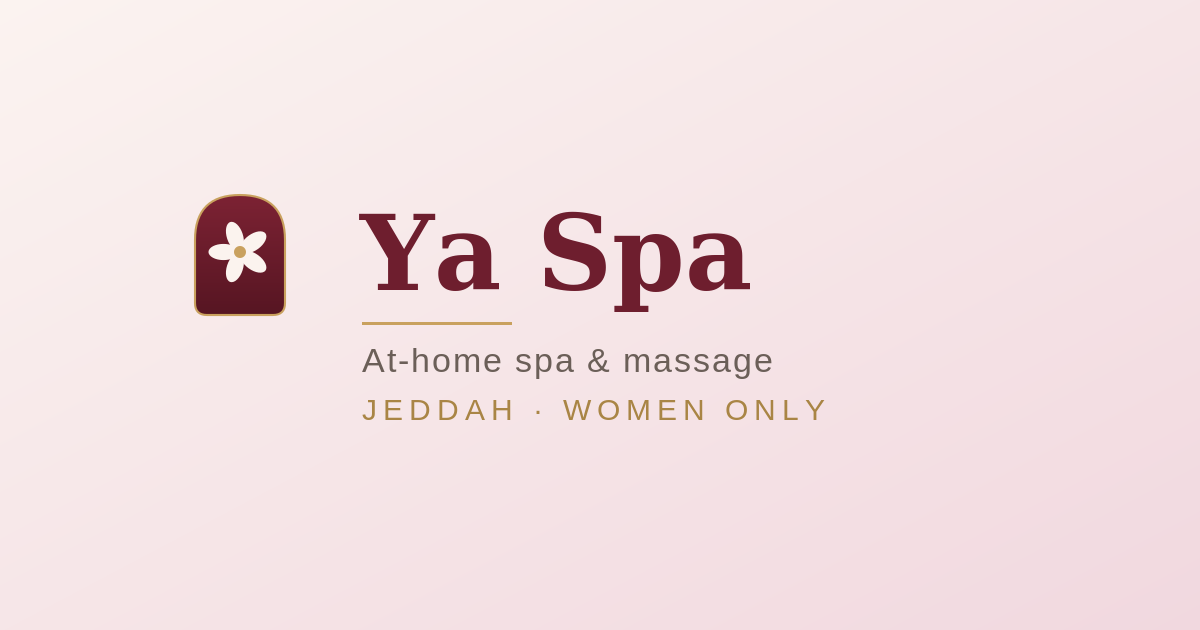
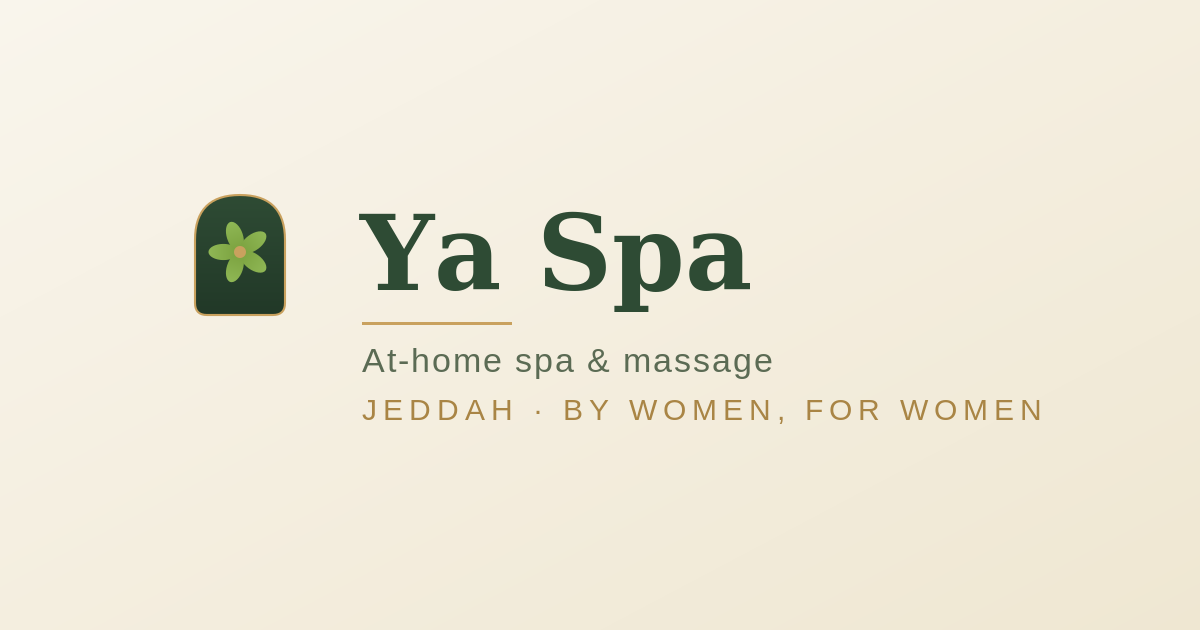
Landing redesign + green botanical rebrand
Rebased the design system to sugar-off-white + botanical green + antique gold
(matches the new logo/app). El Messiri Arabic display, gold hairline rules,
foil-hairline CTAs, forest dark sections. New arch+jasmine logo/favicon/PWA
icons/OG. Reworded "women only" into premium framing.

Changed region(s): [[0.2775, 0.3317, 0.6167, 0.5127], [0.1542, 0.3016, 0.2467, 0.5127], [0.4625, 0.6333, 0.8942, 0.6635]]

diff --git a/assets/styles.css b/assets/styles.css
@@ -9,30 +9,30 @@
 /* ---- Design tokens ---------------------------------------------------- */
 :root {
   /* Pink ramp — surfaces & accents. Pink<=400 = fills, >=600 = text-safe. */
-  --pink-50:  #FFF5F7;
-  --pink-100: #FDE8EE;
-  --pink-200: #FBD0DD;
-  --pink-300: #F7AEC4;
-  --pink-400: #F285A6;
-  --pink-500: #E45C86;
-  --pink-600: #C73E6B;
-  --pink-700: #9E2B52;
+  --pink-50:  #F4F6EC;
+  --pink-100: #E8EFDB;
+  --pink-200: #D5E1C1;
+  --pink-300: #AEC97F;
+  --pink-400: #8FB755;
+  --pink-500: #6E9B3E;
+  --pink-600: #4B7B37;
+  --pink-700: #2E4B34;
 
   /* Accents */
-  --gold-300: #E9D8B8;
-  --gold-500: #C9A24B;
-  --gold-600: #A6822F;
-  --mauve-500:#7A5C7E;
-  --mauve-600:#5F4763;
+  --gold-300: #E7D5AE;
+  --gold-500: #C9A15E;
+  --gold-600: #A98545;
+  --mauve-500:#94893F;
+  --mauve-600:#4E5D3B;
 
   /* Neutrals — warm plum-undertone, never cold black */
-  --ink-900:  #221019;
-  --ink-700:  #4A3540;
-  --ink-500:  #7A6B72;
-  --ink-300:  #D8CDD2;
-  --ink-200:  #EADFE3;
+  --ink-900:  #223420;
+  --ink-700:  #45543B;
+  --ink-500:  #717C64;
+  --ink-300:  #CFD7C4;
+  --ink-200:  #E4E8DA;
   --white:    #FFFFFF;
-  --cream-50: #FFFCFA;
+  --cream-50: #FBF8F0;
 
   /* Semantic */
   --success-600:#1E7A52; --success-100:#DCF3E8;
@@ -41,7 +41,7 @@
   --info-600:   #2563A8; --info-100:   #DEEBF8;
 
   /* Typography */
-  --font-display-ar: "Tajawal", system-ui, sans-serif;
+  --font-display-ar: "El Messiri", "Tajawal", system-ui, sans-serif;
   --font-body-ar:    "IBM Plex Sans Arabic", "Tajawal", system-ui, sans-serif;
   --font-display-en: "Fraunces", Georgia, serif;
   --font-body-en:    "IBM Plex Sans", system-ui, sans-serif;
@@ -50,12 +50,12 @@
   --font-body:    var(--font-body-ar);
 
   /* Elevation — plum-tinted, soft */
-  --shadow-xs:  0 1px 2px rgba(34,16,25,.05);
-  --shadow-sm:  0 2px 8px rgba(34,16,25,.06);
-  --shadow-md:  0 10px 26px rgba(158,43,82,.09);
-  --shadow-lg:  0 20px 48px rgba(158,43,82,.13);
-  --shadow-xl:  0 34px 70px rgba(158,43,82,.16);
-  --ring:       0 0 0 3px rgba(228,92,134,.45);
+  --shadow-xs:  0 1px 2px rgba(34,52,32,.05);
+  --shadow-sm:  0 2px 8px rgba(34,52,32,.07);
+  --shadow-md:  0 12px 28px rgba(46,75,52,.10);
+  --shadow-lg:  0 22px 50px rgba(46,75,52,.15);
+  --shadow-xl:  0 36px 74px rgba(46,75,52,.19);
+  --ring:       0 0 0 3px rgba(110,155,62,.45);
 
   /* Radii */
   --r-sm: 10px; --r-md: 16px; --r-lg: 24px; --r-xl: 34px; --r-pill: 999px;
@@ -239,10 +239,10 @@ html[lang="en"] .display { font-optical-sizing: auto; font-variation-settings: "
 
 /* Hero phone mock */
 .hero-visual { position: relative; display: flex; justify-content: center; }
-.phone { width: min(330px, 80vw); aspect-ratio: 320/660; background: linear-gradient(160deg, #2a1620, #1a0d14); border-radius: 46px; padding: 12px;
+.phone { width: min(330px, 80vw); aspect-ratio: 320/660; background: linear-gradient(160deg, #25402A, #182619); border-radius: 46px; padding: 12px;
   box-shadow: var(--shadow-xl), inset 0 0 0 2px rgba(255,255,255,.06); position: relative; transform: rotate(-2.5deg); transition: transform .5s var(--ease); }
 .phone:hover { transform: rotate(0deg) translateY(-6px); }
-.phone::before { content: ""; position: absolute; top: 16px; inset-inline: 0; margin-inline: auto; width: 96px; height: 22px; background: #1a0d14; border-radius: var(--r-pill); z-index: 3; }
+.phone::before { content: ""; position: absolute; top: 16px; inset-inline: 0; margin-inline: auto; width: 96px; height: 22px; background: #182619; border-radius: var(--r-pill); z-index: 3; }
 .phone-screen { background: var(--pink-50); border-radius: 36px; height: 100%; overflow: hidden; position: relative; display: flex; flex-direction: column; }
 .ps-top { padding: 2.4rem 1.1rem .8rem; }
 .ps-hi { font-size: .8rem; color: var(--ink-500); }
@@ -318,14 +318,14 @@ html[lang="en"] .display { font-optical-sizing: auto; font-variation-settings: "
    Estimator (signature interactive)
    ========================================================================= */
 .estimator { background: var(--ink-900); color: #fff; border-radius: var(--r-xl); padding: clamp(1.6rem, 4vw, 3rem); box-shadow: var(--shadow-xl); position: relative; overflow: hidden; }
-.estimator::after { content: ""; position: absolute; width: 420px; height: 420px; border-radius: 50%; background: radial-gradient(circle, rgba(228,92,134,.35), transparent 60%); top: -160px; inset-inline-end: -120px; }
+.estimator::after { content: ""; position: absolute; width: 420px; height: 420px; border-radius: 50%; background: radial-gradient(circle, rgba(110,155,62,.35), transparent 60%); top: -160px; inset-inline-end: -120px; }
 .est-grid { display: grid; grid-template-columns: 1.2fr .8fr; gap: clamp(1.4rem, 3vw, 2.6rem); position: relative; z-index: 1; }
 .estimator h2 { color: #fff; }
 .estimator .lead { color: var(--pink-100); opacity: .85; }
 .est-items { display: grid; gap: .7rem; margin-top: 1.6rem; }
 .est-item { display: flex; align-items: center; gap: .9rem; padding: .85rem 1rem; border-radius: var(--r-md); background: rgba(255,255,255,.05); border: 1px solid rgba(255,255,255,.1); cursor: pointer; transition: .2s; }
 .est-item:hover { background: rgba(255,255,255,.09); }
-.est-item.active { background: rgba(228,92,134,.18); border-color: var(--pink-400); }
+.est-item.active { background: rgba(110,155,62,.18); border-color: var(--pink-400); }
 .est-check { width: 24px; height: 24px; border-radius: 7px; border: 2px solid rgba(255,255,255,.3); flex: none; display: grid; place-items: center; transition: .2s; }
 .est-item.active .est-check { background: var(--pink-500); border-color: var(--pink-500); }
 .est-check svg { width: 14px; height: 14px; color: #fff; opacity: 0; transform: scale(.5); transition: .2s; }
@@ -361,13 +361,13 @@ html[lang="en"] .display { font-optical-sizing: auto; font-variation-settings: "
    Trust stack
    ========================================================================= */
 .trust { background: var(--ink-900); color: #fff; position: relative; overflow: hidden; }
-.trust .blob.b1 { background: radial-gradient(circle, rgba(228,92,134,.4), transparent 60%); opacity: .5; }
+.trust .blob.b1 { background: radial-gradient(circle, rgba(110,155,62,.4), transparent 60%); opacity: .5; }
 .trust h2 { color: #fff; }
 .trust .lead { color: var(--pink-100); opacity: .82; }
 .trust-grid { grid-template-columns: repeat(5, 1fr); margin-top: 3rem; }
 .trust-card { background: rgba(255,255,255,.05); border: 1px solid rgba(255,255,255,.1); border-radius: var(--r-lg); padding: 1.5rem 1.2rem; text-align: center; transition: .3s var(--ease); }
 .trust-card:hover { background: rgba(255,255,255,.09); transform: translateY(-6px); }
-.trust-card .tc-icon { width: 60px; height: 60px; margin: 0 auto 1rem; border-radius: 50%; background: rgba(228,92,134,.16); color: var(--pink-300); display: grid; place-items: center; }
+.trust-card .tc-icon { width: 60px; height: 60px; margin: 0 auto 1rem; border-radius: 50%; background: rgba(110,155,62,.16); color: var(--pink-300); display: grid; place-items: center; }
 .trust-card .tc-icon svg { width: 30px; height: 30px; }
 .trust-card h4 { color: #fff; font-size: 1.02rem; margin-bottom: .4rem; }
 .trust-card p { color: var(--pink-100); opacity: .65; font-size: .82rem; }
@@ -398,7 +398,7 @@ html[lang="en"] .display { font-optical-sizing: auto; font-variation-settings: "
 .pkg-grid { grid-template-columns: repeat(3, 1fr); margin-top: 1rem; }
 .pkg { background: #fff; border-radius: var(--r-lg); padding: 2rem 1.7rem; box-shadow: var(--shadow-sm); border: 1px solid var(--gold-300); position: relative; transition: .3s var(--ease); display: flex; flex-direction: column; }
 .pkg:hover { transform: translateY(-8px); box-shadow: var(--shadow-xl); }
-.pkg.featured { background: linear-gradient(170deg, #2a1620, #3a2230); color: #fff; border-color: var(--gold-500); transform: scale(1.03); }
+.pkg.featured { background: linear-gradient(170deg, #25402A, #31543A); color: #fff; border-color: var(--gold-500); transform: scale(1.03); }
 .pkg.featured:hover { transform: scale(1.03) translateY(-8px); }
 .pkg .tag { position: absolute; top: -14px; inset-inline-start: 50%; transform: translateX(-50%); background: linear-gradient(120deg, var(--gold-500), var(--gold-600)); color: #2b220c; font-size: .72rem; font-weight: 800; padding: .3rem .9rem; border-radius: var(--r-pill); white-space: nowrap; }
 [dir="rtl"] .pkg .tag { transform: translateX(50%); }
@@ -599,3 +599,42 @@ body.cart-open .wa-float, body.cart-open .totop { inset-block-end: 92px; }
   .footer-bottom { flex-direction: column; }
   :root { --section-y: clamp(48px, 12vw, 80px); }
 }
+
+/* =========================================================================
+   Editorial luxury layer (v3 — quiet Hijazi green)
+   ========================================================================= */
+/* Eyebrow: antique-gold hairline lead-ins on centered heads */
+.section-head.center .eyebrow { gap: .8rem; }
+.section-head.center .eyebrow::before,
+.section-head.center .eyebrow::after { content:""; width: 26px; height: 1px; background: var(--gold-500); opacity:.75; }
+
+/* Gold hairline rule under centered section titles */
+.section-head.center .section-title { position: relative; padding-bottom: .8rem; }
+.section-head.center .section-title::after {
+  content:""; position:absolute; inset-inline:0; bottom:0; margin-inline:auto;
+  width: 56px; height: 2px; border-radius: 2px;
+  background: linear-gradient(90deg, transparent, var(--gold-500), transparent);
+}
+
+/* Primary CTA — forest green with an antique-gold foil hairline (matches the app) */
+.btn-primary { background: linear-gradient(180deg, var(--pink-600), var(--pink-700)); position: relative; }
+.btn-primary::after { content:""; position:absolute; inset:3px; border-radius: inherit;
+  box-shadow: inset 0 0 0 1px rgba(201,161,94,.45); pointer-events:none; }
+.btn-primary:hover { background: var(--pink-700); }
+
+/* Warm gold hairline along the top edge of the dark (forest) sections */
+.valuestrip, .trust, .estimator, .site-footer { box-shadow: inset 0 1px 0 rgba(201,161,94,.30); }
+.estimator { box-shadow: var(--shadow-xl), inset 0 1px 0 rgba(201,161,94,.30); }
+
+/* Hero accent — a soft gold wash underline instead of a flat block */
+.hero h1 .accent { color: var(--pink-700); }
+.hero h1 .accent::after { background: linear-gradient(90deg, var(--gold-300), var(--gold-500)); height:.28em; opacity:.6; }
+
+/* Cards: warm hairline on hover */
+.svc:hover, .feature:hover { border-color: var(--pink-200); }
+
+/* Arabic display (El Messiri) wants a touch more leading */
+[lang="ar"] .display, [lang="ar"] h2.section-title { line-height: 1.3; }
+
+/* Brand wordmark small-caps in gold-green */
+.brand small { color: var(--gold-600); }

diff --git a/index.html b/index.html
@@ -3,9 +3,9 @@
 <head>
 <meta charset="UTF-8">
 <meta name="viewport" content="width=device-width, initial-scale=1, viewport-fit=cover">
-<title>يا سبا · السبا والمساج يجيكِ البيت — Ya Spa</title>
-<meta name="description" content="يا سبا — مساج وعناية احترافية في بيتكِ بجدة. معالجات وأخصائيات معتمدات، نساء فقط، أدوات معقّمة. اطلبي خدمتكِ الآن.">
-<meta name="theme-color" content="#9E2B52">
+<title>يا سبا · المساج يجيكِ البيت — Ya Spa</title>
+<meta name="description" content="يا سبا — مساج احترافي في بيتكِ بجدة. معالِجات مساج معتمدات، نساء فقط، أدوات معقّمة. اطلبي جلستكِ الآن.">
+<meta name="theme-color" content="#2E4B34">
 <link rel="canonical" href="https://mohammadmseet-hue.github.io/ya-spa/">
 <meta property="og:title" content="يا سبا — السبا والمساج يجيكِ البيت · Ya Spa">
 <meta property="og:description" content="مساج وعناية احترافية في خصوصية بيتكِ بجدة. نساء فقط، معالجات معتمدات، أدوات معقّمة.">
@@ -24,7 +24,7 @@
 <link rel="icon" href="assets/icon.svg">
 <link rel="preconnect" href="https://fonts.googleapis.com">
 <link rel="preconnect" href="https://fonts.gstatic.com" crossorigin>
-<link href="https://fonts.googleapis.com/css2?family=Tajawal:wght@400;500;700;800;900&family=IBM+Plex+Sans+Arabic:wght@400;500;600;700&family=IBM+Plex+Sans:wght@400;500;600;700&family=Fraunces:opsz,wght@9..144,400;9..144,500;9..144,600;9..144,700&display=swap" rel="stylesheet">
+<link href="https://fonts.googleapis.com/css2?family=El+Messiri:wght@500;600;700&family=Tajawal:wght@400;500;700;800;900&family=IBM+Plex+Sans+Arabic:wght@400;500;600;700&family=IBM+Plex+Sans:wght@400;500;600;700&family=Fraunces:opsz,wght@9..144,400;9..144,500;9..144,600;9..144,700&display=swap" rel="stylesheet">
 <link rel="stylesheet" href="assets/styles.css">
 </head>
 <body>
@@ -45,7 +45,6 @@
 
     <nav class="nav-links" aria-label="primary">
       <a href="#massage" data-ar="المساج" data-en="Massage">المساج</a>
-      <a href="#beauty" data-ar="التجميل" data-en="Beauty">التجميل</a>
       <a href="#how" data-ar="كيف تطلبين" data-en="How to order">كيف تطلبين</a>
       <a href="#trust" data-ar="الثقة والأمان" data-en="Trust & safety">الثقة والأمان</a>
       <a href="#bridal" data-ar="باقات العرائس" data-en="Bridal">باقات العرائس</a>
@@ -67,7 +66,6 @@
 <div class="mobile-menu" id="mobileMenu">
   <div class="mobile-panel">
     <a href="#massage" data-ar="المساج" data-en="Massage">المساج</a>
-    <a href="#beauty" data-ar="التجميل" data-en="Beauty">التجميل</a>
     <a href="#how" data-ar="كيف تطلبين" data-en="How to order">كيف تطلبين</a>
     <a href="#trust" data-ar="الثقة والأمان" data-en="Trust & safety">الثقة والأمان</a>
     <a href="#bridal" data-ar="باقات العرائس" data-en="Bridal">باقات العرائس</a>
@@ -82,20 +80,20 @@
     <div class="hero-copy">
       <div class="hero-rating reveal">
         <span class="stars">★★★★★</span>
-        <span data-ar="مصمَّمة للمرأة السعودية — نساء فقط، دائمًا" data-en="Built for Saudi women — women only, always">مصمَّمة للمرأة السعودية — نساء فقط، دائمًا</span>
+        <span data-ar="مصمَّمة للمرأة السعودية · عالَمٌ نسائيّ بالكامل" data-en="Made for Saudi women · an all-women world">مصمَّمة للمرأة السعودية · عالَمٌ نسائيّ بالكامل</span>
       </div>
       <span class="eyebrow reveal d1" data-ar="✦ السبا يجيكِ البيت · جدة" data-en="✦ The spa comes home · Jeddah">✦ السبا يجيكِ البيت · جدة</span>
       <h1 class="display reveal d1">
         <span data-ar="المساج والاسترخاء" data-en="Massage & calm,">المساج والاسترخاء</span>
         <span class="accent" data-ar="في بيتكِ" data-en="at your home">في بيتكِ</span>
       </h1>
-      <p class="lead reveal d2" data-ar="معالِجات مساج وأخصائيات تجميل معتمدات — نساء فقط — يصلن إلى خصوصية بيتكِ في جدة. مساج احترافي للاسترخاء وتخفيف التوتر، بأدوات معقّمة وسعرٍ واضح. اختاري خدمتكِ واطلبيها في دقيقة." data-en="Certified massage therapists and beauty pros — women only — come to the privacy of your home in Jeddah. Professional, relaxing massage with sealed tools and clear pricing. Pick a service and order in a minute.">معالِجات مساج وأخصائيات تجميل معتمدات — نساء فقط — يصلن إلى خصوصية بيتكِ في جدة. مساج احترافي للاسترخاء وتخفيف التوتر، بأدوات معقّمة وسعرٍ واضح. اختاري خدمتكِ واطلبيها في دقيقة.</p>
+      <p class="lead reveal d2" data-ar="معالِجات مساج معتمدات، في عالَمٍ نسائيّ بالكامل، يصلن إلى خصوصية بيتكِ في جدة. لمسة راقية للاسترخاء وصفاء الذهن — بأدوات معقّمة وسعرٍ شفّاف. اختاري جلستكِ في دقيقة." data-en="Certified therapists, in an entirely all-women world, arrive at the privacy of your Jeddah home. A refined, restorative ritual — sealed tools, transparent pricing. Choose your session in a minute.">معالِجات مساج معتمدات، في عالَمٍ نسائيّ بالكامل، يصلن إلى خصوصية بيتكِ في جدة. لمسة راقية للاسترخاء وصفاء الذهن — بأدوات معقّمة وسعرٍ شفّاف. اختاري جلستكِ في دقيقة.</p>
       <div class="hero-cta reveal d3">
         <a href="#massage" class="btn btn-primary btn-lg" data-ar="اطلبي جلسة مساج" data-en="Book a massage">اطلبي جلسة مساج</a>
         <a href="#how" class="btn btn-ghost btn-lg" data-ar="كيف تطلبين؟" data-en="How to order">كيف تطلبين؟</a>
       </div>
       <div class="hero-strip reveal d4">
-        <span class="chip"><svg viewBox="0 0 24 24" fill="none" stroke="currentColor" stroke-width="2.2"><path d="M20 6 9 17l-5-5"/></svg><span data-ar="نساء فقط" data-en="Women only">نساء فقط</span></span>
+        <span class="chip"><svg viewBox="0 0 24 24" fill="none" stroke="currentColor" stroke-width="2.2"><path d="M20 6 9 17l-5-5"/></svg><span data-ar="بأيادٍ نسائية" data-en="By women, for women">بأيادٍ نسائية</span></span>
         <span class="chip"><svg viewBox="0 0 24 24" fill="none" stroke="currentColor" stroke-width="2.2"><path d="M20 6 9 17l-5-5"/></svg><span data-ar="معالِجات معتمدات" data-en="Certified therapists">معالِجات معتمدات</span></span>
         <span class="chip"><svg viewBox="0 0 24 24" fill="none" stroke="currentColor" stroke-width="2.2"><path d="M20 6 9 17l-5-5"/></svg><span data-ar="أدوات معقّمة" data-en="Sealed tools">أدوات معقّمة</span></span>
       </div>
@@ -161,7 +159,7 @@
     <div class="section-head center reveal">
       <span class="eyebrow" data-ar="خدمتنا الأولى · المساج" data-en="Our signature · Massage">خدمتنا الأولى · المساج</span>
       <h2 class="section-title" data-ar="مساج احترافي، بأيدٍ نسائية معتمدة" data-en="Professional massage, by certified women">مساج احترافي، بأيدٍ نسائية معتمدة</h2>
-      <p class="lead muted" data-ar="جلسات استرخاء وعلاج للجسم تقدّمها معالِجات معتمدات — نساء فقط — في خصوصية بيتكِ، بأغطية نظيفة وزيوت معتمدة. اختاري نوع المساج وأضيفيه لطلبكِ." data-en="Relaxing, therapeutic body sessions by certified therapists — women only — in the privacy of your home, with fresh linens and approved oils. Pick your massage and add it to your order.">جلسات استرخاء وعلاج للجسم تقدّمها معالِجات معتمدات — نساء فقط — في خصوصية بيتكِ، بأغطية نظيفة وزيوت معتمدة. اختاري نوع المساج وأضيفيه لطلبكِ.</p>
+      <p class="lead muted" data-ar="جلسات استرخاء وعلاج للجسم تقدّمها معالِجات معتمدات في عالمٍ نسائيّ بالكامل، في خصوصية بيتكِ، بأغطية نظيفة وزيوت معتمدة. اختاري نوع المساج وأضيفيه لطلبكِ." data-en="Relaxing, therapeutic body sessions by certified therapists in an all-women world, in the privacy of your home, with fresh linens and approved oils. Pick your massage and add it to your order.">جلسات استرخاء وعلاج للجسم تقدّمها معالِجات معتمدات في عالمٍ نسائيّ بالكامل، في خصوصية بيتكِ، بأغطية نظيفة وزيوت معتمدة. اختاري نوع المساج وأضيفيه لطلبكِ.</p>
     </div>
 
     <div class="grid svc-grid massage-grid">
@@ -252,7 +250,8 @@
   </div>
 </section>
 
-<!-- =================== Beauty (secondary) =================== -->
+<!-- =================== Beauty — HIDDEN for massage-only launch. Un-comment this whole block (and the b_* items in app.js + the nav/footer links) to bring Beauty back. =================== -->
+<!-- BEAUTY-HIDDEN-START
 <section class="section" id="beauty">
   <div class="wrap">
     <div class="section-head center reveal">
@@ -312,6 +311,7 @@
     </div>
   </div>
 </section>
+BEAUTY-HIDDEN-END -->
 
 <!-- =================== Order / cart builder =================== -->
 <section class="section" id="book">
@@ -353,7 +353,7 @@
       <div class="step reveal">
         <div class="num">١</div>
         <h3 data-ar="اختاري خدمتكِ" data-en="Choose your service">اختاري خدمتكِ</h3>
-        <p data-ar="تصفّحي أنواع المساج والتجميل بسعر ومدّة واضحين، وأضيفيها لطلبكِ." data-en="Browse massage and beauty with clear price and duration, and add to your order.">تصفّحي أنواع المساج والتجميل بسعر ومدّة واضحين، وأضيفيها لطلبكِ.</p>
+        <p data-ar="تصفّحي أنواع المساج بسعر ومدّة واضحين، وأضيفيها لطلبكِ." data-en="Browse massage types with clear price and duration, and add to your order.">تصفّحي أنواع المساج بسعر ومدّة واضحين، وأضيفيها لطلبكِ.</p>
       </div>
       <div class="step reveal d1">
         <div class="num">٢</div>
@@ -387,7 +387,7 @@
       <div class="trust-card reveal">
         <div class="tc-icon"><svg viewBox="0 0 24 24" fill="none" stroke="currentColor" stroke-width="2"><circle cx="12" cy="8" r="4"/><path d="M5 21c0-4 3-6 7-6s7 2 7 6"/></svg></div>
         <h4 data-ar="امرأة موثّقة" data-en="Verified female">امرأة موثّقة</h4>
-        <p data-ar="هوية مؤكّدة وصورة حقيقية لكل معالِجة وأخصائية." data-en="Confirmed identity and a real photo for every woman.">هوية مؤكّدة وصورة حقيقية لكل معالِجة وأخصائية.</p>
+        <p data-ar="هوية مؤكّدة وصورة حقيقية لكل معالِجة." data-en="Confirmed identity and a real photo for every therapist.">هوية مؤكّدة وصورة حقيقية لكل معالِجة.</p>
       </div>
       <div class="trust-card reveal d1">
         <div class="tc-icon"><svg viewBox="0 0 24 24" fill="none" stroke="currentColor" stroke-width="2"><path d="M12 3l7 4v5c0 5-3.5 8-7 9-3.5-1-7-4-7-9V7z"/><path d="M9 12l2 2 4-4"/></svg></div>
@@ -455,16 +455,16 @@
     <div class="section-head center reveal">
       <span class="eyebrow" data-ar="✦ باقات العرائس والمناسبات" data-en="✦ Bridal & occasions">✦ باقات العرائس والمناسبات</span>
       <h2 class="section-title" data-ar="يومكِ الكبير يستحق رحلة كاملة" data-en="Your big day deserves a full journey">يومكِ الكبير يستحق رحلة كاملة</h2>
-      <p class="lead muted" data-ar="مساج استرخاء قبل العرس، عناية بالبشرة، ومكياج وتسريحة — فريق نسائي كامل يصلكِ البيت. قسّمي المبلغ مع تابي أو تمارا." data-en="Pre-wedding relaxation massage, skincare, makeup and hair — a full female team comes to you. Split it with Tabby or Tamara.">مساج استرخاء قبل العرس، عناية بالبشرة، ومكياج وتسريحة — فريق نسائي كامل يصلكِ البيت. قسّمي المبلغ مع تابي أو تمارا.</p>
+      <p class="lead muted" data-ar="رحلة مساج استرخاء وتخفيف توتر قبل يومكِ الكبير — جلسات متعددة لكِ ولمن تحبّين، يقدّمها فريق نسائي كامل في بيتكِ. قسّمي المبلغ مع تابي أو تمارا." data-en="A pre-wedding journey of relaxation and de-stress massage — multiple sessions for you and your loved ones, delivered by a full female team at home. Split it with Tabby or Tamara.">رحلة مساج استرخاء وتخفيف توتر قبل يومكِ الكبير — جلسات متعددة لكِ ولمن تحبّين، يقدّمها فريق نسائي كامل في بيتكِ. قسّمي المبلغ مع تابي أو تمارا.</p>
     </div>
     <div class="grid pkg-grid">
       <article class="pkg reveal">
         <h3 data-ar="لمسة المناسبة" data-en="The Occasion">لمسة المناسبة</h3>
         <div class="pkg-price"><span data-ar="١٬٢٠٠" data-en="1,200">١٬٢٠٠</span> <small>﷼</small></div>
         <ul>
-          <li><svg viewBox="0 0 24 24" fill="none" stroke="currentColor" stroke-width="2.4"><path d="M20 6 9 17l-5-5"/></svg><span data-ar="مساج استرخاء ٦٠ د" data-en="60-min relaxation massage">مساج استرخاء ٦٠ د</span></li>
-          <li><svg viewBox="0 0 24 24" fill="none" stroke="currentColor" stroke-width="2.4"><path d="M20 6 9 17l-5-5"/></svg><span data-ar="مكياج وتسريحة للمناسبة" data-en="Event makeup & hair">مكياج وتسريحة للمناسبة</span></li>
-          <li><svg viewBox="0 0 24 24" fill="none" stroke="currentColor" stroke-width="2.4"><path d="M20 6 9 17l-5-5"/></svg><span data-ar="مانيكير وباديكير" data-en="Mani-pedi">مانيكير وباديكير</span></li>
+          <li><svg viewBox="0 0 24 24" fill="none" stroke="currentColor" stroke-width="2.4"><path d="M20 6 9 17l-5-5"/></svg><span data-ar="٣ جلسات مساج استرخاء ٦٠ د" data-en="3× 60-min relaxation massages">٣ جلسات مساج استرخاء ٦٠ د</span></li>
+          <li><svg viewBox="0 0 24 24" fill="none" stroke="currentColor" stroke-width="2.4"><path d="M20 6 9 17l-5-5"/></svg><span data-ar="جلسة مساج بالأحجار الساخنة" data-en="Hot-stone massage session">جلسة مساج بالأحجار الساخنة</span></li>
+          <li><svg viewBox="0 0 24 24" fill="none" stroke="currentColor" stroke-width="2.4"><path d="M20 6 9 17l-5-5"/></svg><span data-ar="علاج بالزيوت العطرية الفاخرة" data-en="Premium aromatherapy oils">علاج بالزيوت العطرية الفاخرة</span></li>
         </ul>
         <button class="btn btn-wa btn-block" data-pkg="occasion"><svg viewBox="0 0 24 24" fill="currentColor"><path d="M12 2a10 [phone redacted] 15l-[phone redacted].3A10 [phone redacted] 2zm5.8 14.2c-.[phone redacted]-.[phone redacted]-.1-.4-.1-1-.3-1.7-.[phone redacted].5s-[phone redacted] .7-2.1 1-2.4c.2-.3.5-.4.7-.4h.5c.2 0 .4 0 .6.5l.8 2c.1.2.1.4 0 .5l-.4.5-.3.4c-.1.1-.3.3-.1.6s.7 1.1 1.5 1.8c1 .[phone redacted]-.1l.7-.9c.2-.2.4-.2.6-.1l1.9.9c.[phone redacted]-.1 1.3z"/></svg><span data-ar="اطلبي عبر واتساب" data-en="Order on WhatsApp">اطلبي عبر واتساب</span></button>
       </article>
@@ -473,10 +473,10 @@
         <h3 data-ar="رحلة العروس" data-en="The Bride's Journey">رحلة العروس</h3>
         <div class="pkg-price"><span data-ar="٤٬٩٠٠" data-en="4,900">٤٬٩٠٠</span> <small>﷼</small></div>
         <ul>
-          <li><svg viewBox="0 0 24 24" fill="none" stroke="currentColor" stroke-width="2.4"><path d="M20 6 9 17l-5-5"/></svg><span data-ar="٣ جلسات مساج استرخاء" data-en="3 relaxation massages">٣ جلسات مساج استرخاء</span></li>
-          <li><svg viewBox="0 0 24 24" fill="none" stroke="currentColor" stroke-width="2.4"><path d="M20 6 9 17l-5-5"/></svg><span data-ar="٤ جلسات عناية بالبشرة" data-en="4 prep facials">٤ جلسات عناية بالبشرة</span></li>
-          <li><svg viewBox="0 0 24 24" fill="none" stroke="currentColor" stroke-width="2.4"><path d="M20 6 9 17l-5-5"/></svg><span data-ar="مكياج وتسريحة يوم العرس" data-en="Wedding-day makeup & hair">مكياج وتسريحة يوم العرس</span></li>
-          <li><svg viewBox="0 0 24 24" fill="none" stroke="currentColor" stroke-width="2.4"><path d="M20 6 9 17l-5-5"/></svg><span data-ar="منسّقة جمال خاصة بكِ" data-en="Your own beauty coordinator">منسّقة جمال خاصة بكِ</span></li>
+          <li><svg viewBox="0 0 24 24" fill="none" stroke="currentColor" stroke-width="2.4"><path d="M20 6 9 17l-5-5"/></svg><span data-ar="٨ جلسات مساج استرخاء قبل العرس" data-en="8 pre-wedding relaxation massages">٨ جلسات مساج استرخاء قبل العرس</span></li>
+          <li><svg viewBox="0 0 24 24" fill="none" stroke="currentColor" stroke-width="2.4"><path d="M20 6 9 17l-5-5"/></svg><span data-ar="جلسات مساج أنسجة عميقة لتخفيف التوتر" data-en="Deep-tissue de-stress sessions">جلسات مساج أنسجة عميقة لتخفيف التوتر</span></li>
+          <li><svg viewBox="0 0 24 24" fill="none" stroke="currentColor" stroke-width="2.4"><path d="M20 6 9 17l-5-5"/></svg><span data-ar="مساج القدمين الانعكاسي" data-en="Foot-reflexology sessions">مساج القدمين الانعكاسي</span></li>
+          <li><svg viewBox="0 0 24 24" fill="none" stroke="currentColor" stroke-width="2.4"><path d="M20 6 9 17l-5-5"/></svg><span data-ar="معالِجتكِ الخاصة طوال الرحلة" data-en="Your own dedicated therapist throughout">معالِجتكِ الخاصة طوال الرحلة</span></li>
         </ul>
         <button class="btn btn-gold btn-block" data-pkg="journey"><svg viewBox="0 0 24 24" fill="currentColor"><path d="M12 2a10 [phone redacted] 15l-[phone redacted].3A10 [phone redacted] 2zm5.8 14.2c-.[phone redacted]-.[phone redacted]-.1-.4-.1-1-.3-1.7-.[phone redacted].5s-[phone redacted] .7-2.1 1-2.4c.2-.3.5-.4.7-.4h.5c.2 0 .4 0 .6.5l.8 2c.1.2.1.4 0 .5l-.4.5-.3.4c-.1.1-.3.3-.1.6s.7 1.1 1.5 1.8c1 .[phone redacted]-.1l.7-.9c.2-.2.4-.2.6-.1l1.9.9c.[phone redacted]-.1 1.3z"/></svg><span data-ar="احجزي رحلتكِ عبر واتساب" data-en="Book on WhatsApp">احجزي رحلتكِ عبر واتساب</span></button>
       </article>
@@ -485,8 +485,8 @@
         <div class="pkg-price"><span data-ar="٨٬٥٠٠" data-en="8,500">٨٬٥٠٠</span> <small>﷼</small></div>
         <ul>
           <li><svg viewBox="0 0 24 24" fill="none" stroke="currentColor" stroke-width="2.4"><path d="M20 6 9 17l-5-5"/></svg><span data-ar="كل ما في رحلة العروس" data-en="Everything in the Journey">كل ما في رحلة العروس</span></li>
-          <li><svg viewBox="0 0 24 24" fill="none" stroke="currentColor" stroke-width="2.4"><path d="M20 6 9 17l-5-5"/></svg><span data-ar="جلسات لأمّ العروس والأخوات" data-en="Sessions for mother & sisters">جلسات لأمّ العروس والأخوات</span></li>
-          <li><svg viewBox="0 0 24 24" fill="none" stroke="currentColor" stroke-width="2.4"><path d="M20 6 9 17l-5-5"/></svg><span data-ar="بروفة مكياج كاملة" data-en="Full makeup trial">بروفة مكياج كاملة</span></li>
+          <li><svg viewBox="0 0 24 24" fill="none" stroke="currentColor" stroke-width="2.4"><path d="M20 6 9 17l-5-5"/></svg><span data-ar="جلسات مساج لأمّ العروس والأخوات" data-en="Massage sessions for mother & sisters">جلسات مساج لأمّ العروس والأخوات</span></li>
+          <li><svg viewBox="0 0 24 24" fill="none" stroke="currentColor" stroke-width="2.4"><path d="M20 6 9 17l-5-5"/></svg><span data-ar="مساج استرخاء صباح يوم العرس" data-en="Wedding-morning relaxation massage">مساج استرخاء صباح يوم العرس</span></li>
         </ul>
         <button class="btn btn-wa btn-block" data-pkg="deluxe"><svg viewBox="0 0 24 24" fill="currentColor"><path d="M12 2a10 [phone redacted] 15l-[phone redacted].3A10 [phone redacted] 2zm5.8 14.2c-.[phone redacted]-.[phone redacted]-.1-.4-.1-1-.3-1.7-.[phone redacted].5s-[phone redacted] .7-2.1 1-2.4c.2-.3.5-.4.7-.4h.5c.2 0 .4 0 .6.5l.8 2c.1.2.1.4 0 .5l-.4.5-.3.4c-.1.1-.3.3-.1.6s.7 1.1 1.5 1.8c1 .[phone redacted]-.1l.7-.9c.2-.2.4-.2.6-.1l1.9.9c.[phone redacted]-.1 1.3z"/></svg><span data-ar="اطلبي عبر واتساب" data-en="Order on WhatsApp">اطلبي عبر واتساب</span></button>
       </article>
@@ -504,7 +504,7 @@
     <div class="grid safety-grid">
       <div class="safety-item reveal">
         <div class="si-icon"><svg viewBox="0 0 24 24" fill="none" stroke="currentColor" stroke-width="2" width="22"><circle cx="12" cy="8" r="4"/><path d="M5 21c0-4 3-6 7-6s7 2 7 6"/></svg></div>
-        <div><h4 data-ar="نساء فقط، بلا استثناء" data-en="Women only, no exceptions">نساء فقط، بلا استثناء</h4><p data-ar="كل معالِجة وأخصائية امرأة، وكذلك فريق الدعم. مساج علاجي واسترخائي محترم، بأغطية تحفظ خصوصيتكِ." data-en="Every therapist and support agent is a woman. Respectful therapeutic and relaxation massage, with draping that protects your privacy.">كل معالِجة وأخصائية امرأة، وكذلك فريق الدعم. مساج علاجي واسترخائي محترم، بأغطية تحفظ خصوصيتكِ.</p></div>
+        <div><h4 data-ar="عالَمٌ نسائيّ بالكامل" data-en="An entirely all-women world">عالَمٌ نسائيّ بالكامل</h4><p data-ar="كل معالِجاتنا نساء، وكذلك فريق الدعم. لمسة علاجية واسترخائية محترمة، بأغطية تحفظ خصوصيتكِ." data-en="Every therapist and support agent is a woman. A respectful therapeutic and relaxation ritual, with draping that protects your privacy.">كل معالِجاتنا نساء، وكذلك فريق الدعم. لمسة علاجية واسترخائية محترمة، بأغطية تحفظ خصوصيتكِ.</p></div>
       </div>
       <div class="safety-item reveal d1">
         <div class="si-icon"><svg viewBox="0 0 24 24" fill="none" stroke="currentColor" stroke-width="2" width="22"><path d="M12 21s-7-6.7-7-11a7 7 0 0 1 14 0c0 4.3-7 11-7 11z"/><circle cx="12" cy="10" r="2.5"/></svg></div>
@@ -548,7 +548,7 @@
       <article class="testi-card">
         <div class="testi-stars">★★★★★</div>
         <span class="quote-mark">”</span>
-        <p data-ar="حجزت باقة العروس كاملة بالبيت — مساج وعناية ومكياج. وفّرت عليّ زحمة الصالونات قبل العرس، تجربة ملكية." data-en="I booked the full bridal package at home — massage, skincare and makeup. It saved me the pre-wedding salon chaos. A royal experience.">حجزت باقة العروس كاملة بالبيت — مساج وعناية ومكياج. وفّرت عليّ زحمة الصالونات قبل العرس، تجربة ملكية.</p>
+        <p data-ar="حجزت رحلة العروس كاملة بالبيت — جلسات مساج استرخاء قبل العرس. وفّرت عليّ توتر الأيام الأخيرة قبل العرس، تجربة ملكية." data-en="I booked the full Bride's Journey at home — a series of pre-wedding relaxation massages. It melted away the stress of the final days before the wedding. A royal experience.">حجزت رحلة العروس كاملة بالبيت — جلسات مساج استرخاء قبل العرس. وفّرت عليّ توتر الأيام الأخيرة قبل العرس، تجربة ملكية.</p>
         <div class="testi-who"><div class="av">ع</div><div><b data-ar="عبير · جدة" data-en="Abeer · Jeddah">عبير · جدة</b><small data-ar="عروس ٢٠٢٦" data-en="2026 bride">عروس ٢٠٢٦</small></div></div>
       </article>
       <article class="testi-card">
@@ -564,8 +564,8 @@
 <!-- =================== Provider CTA =================== -->
 <section class="section" id="providers">
   <div class="wrap">
-    <div class="cta-box reveal" style="background:linear-gradient(160deg,#2a1620,#3a2230);color:#fff;border-color:transparent">
-      <span class="eyebrow" style="color:var(--gold-300)" data-ar="هل أنتِ معالِجة مساج أو أخصائية تجميل؟" data-en="Are you a massage therapist or beauty pro?">هل أنتِ معالِجة مساج أو أخصائية تجميل؟</span>
+    <div class="cta-box reveal" style="background:linear-gradient(160deg,#25402A,#31543A);color:#fff;border-color:transparent">
+      <span class="eyebrow" style="color:var(--gold-300)" data-ar="هل أنتِ معالِجة مساج؟" data-en="Are you a massage therapist?">هل أنتِ معالِجة مساج؟</span>
       <h2 class="section-title" style="color:#fff" data-ar="اعملي بشروطكِ. واكسبي باحترام." data-en="Work on your terms. Earn with respect.">اعملي بشروطكِ. واكسبي باحترام.</h2>
       <p class="lead" style="color:var(--pink-100)" data-ar="عمولة عادلة وشفّافة، مرونة كاملة في مواعيدكِ، وبيئة آمنة نسائية. ننمّي دخلكِ ونحترم وقتكِ." data-en="A fair, transparent commission, full control of your schedule, and a safe, women-only environment. We grow your income and respect your time.">عمولة عادلة وشفّافة، مرونة كاملة في مواعيدكِ، وبيئة آمنة نسائية. ننمّي دخلكِ ونحترم وقتكِ.</p>
       <button class="btn btn-gold btn-lg" id="joinBtn" style="margin-top:1.6rem"><svg viewBox="0 0 24 24" fill="currentColor" style="width:1.1em;height:1.1em"><path d="M12 2a10 [phone redacted] 15l-[phone redacted].3A10 [phone redacted] 2zm5.8 14.2c-.[phone redacted]-.[phone redacted]-.1-.4-.1-1-.3-1.7-.[phone redacted].5s-[phone redacted] .7-2.1 1-2.4c.2-.3.5-.4.7-.4h.5c.2 0 .4 0 .6.5l.8 2c.1.2.1.4 0 .5l-.4.5-.3.4c-.1.1-.3.3-.1.6s.7 1.1 1.5 1.8c1 .[phone redacted]-.1l.7-.9c.2-.2.4-.2.6-.1l1.9.9c.[phone redacted]-.1 1.3z"/></svg><span data-ar="انضمي إلينا عبر واتساب" data-en="Join us on WhatsApp">انضمي إلينا عبر واتساب</span></button>
@@ -583,7 +583,7 @@
     <div class="faq-list">
       <div class="faq-item reveal">
         <button class="faq-q"><span data-ar="هل كل المعالِجات نساء فعلًا؟" data-en="Are all therapists really women?">هل كل المعالِجات نساء فعلًا؟</span><span class="pm">+</span></button>
-        <div class="faq-a"><p data-ar="نعم، ١٠٠٪. كل معالِجة وأخصائية امرأة، تُتحقّق هويتها، وكذلك فريق الدعم نسائي بالكامل. مساجنا علاجي واسترخائي محترم فقط، يُقدَّم بأغطية تحفظ خصوصيتكِ." data-en="Yes, 100%. Every therapist and pro is a woman with a verified identity, and our support team is entirely female. Our massage is strictly therapeutic and relaxation, delivered with draping that protects your privacy.">نعم، ١٠٠٪. كل معالِجة وأخصائية امرأة، تُتحقّق هويتها، وكذلك فريق الدعم نسائي بالكامل. مساجنا علاجي واسترخائي محترم فقط، يُقدَّم بأغطية تحفظ خصوصيتكِ.</p></div>
+        <div class="faq-a"><p data-ar="نعم، ١٠٠٪. كل معالِجة امرأة تُتحقّق هويتها، وكذلك فريق الدعم نسائي بالكامل. مساجنا علاجي واسترخائي محترم فقط، يُقدَّم بأغطية تحفظ خصوصيتكِ." data-en="Yes, 100%. Every therapist is a woman with a verified identity, and our support team is entirely female. Our massage is strictly therapeutic and relaxation, delivered with draping that protects your privacy.">نعم، ١٠٠٪. كل معالِجة امرأة تُتحقّق هويتها، وكذلك فريق الدعم نسائي بالكامل. مساجنا علاجي واسترخائي محترم فقط، يُقدَّم بأغطية تحفظ خصوصيتكِ.</p></div>
       </div>
       <div class="faq-item reveal">
         <button class="faq-q"><span data-ar="كيف أطلب وكيف أدفع؟" data-en="How do I order and pay?">كيف أطلب وكيف أدفع؟</span><span class="pm">+</span></button>
@@ -613,11 +613,11 @@
 <section class="section cta-final" id="order">
   <div class="wrap">
     <div class="cta-box reveal">
-      <svg class="petal-deco" style="top:-30px;inset-inline-start:-20px;width:120px" viewBox="0 0 100 100"><path d="M50 10c9 16 28 15 28 33S57 82 50 90C43 82 22 61 22 43S41 26 50 10z" fill="#FBD0DD"/></svg>
-      <svg class="petal-deco" style="bottom:-40px;inset-inline-end:-10px;width:90px" viewBox="0 0 100 100"><path d="M50 10c9 16 28 15 28 33S57 82 50 90C43 82 22 61 22 43S41 26 50 10z" fill="#E9D8B8"/></svg>
+      <svg class="petal-deco" style="top:-30px;inset-inline-start:-20px;width:120px" viewBox="0 0 100 100"><path d="M50 10c9 16 28 15 28 33S57 82 50 90C43 82 22 61 22 43S41 26 50 10z" fill="#AEC97F"/></svg>
+      <svg class="petal-deco" style="bottom:-40px;inset-inline-end:-10px;width:90px" viewBox="0 0 100 100"><path d="M50 10c9 16 28 15 28 33S57 82 50 90C43 82 22 61 22 43S41 26 50 10z" fill="#E7D5AE"/></svg>
       <span class="eyebrow" data-ar="✦ جاهزة للاسترخاء؟" data-en="✦ Ready to unwind?">✦ جاهزة للاسترخاء؟</span>
       <h2 class="section-title" data-ar="اطلبي جلستكِ الآن في جدة" data-en="Order your session now in Jeddah">اطلبي جلستكِ الآن في جدة</h2>
-      <p class="lead muted" data-ar="اختاري خدماتكِ وأرسلي طلبكِ عبر واتساب — نؤكّد معالِجتكِ وموعدكِ خلال دقائق. نساء فقط، في خصوصية بيتكِ." data-en="Pick your services and send your order on WhatsApp — we confirm your therapist and time within minutes. Women only, in the privacy of your home.">اختاري خدماتكِ وأرسلي طلبكِ عبر واتساب — نؤكّد معالِجتكِ وموعدكِ خلال دقائق. نساء فقط، في خصوصية بيتكِ.</p>
+      <p class="lead muted" data-ar="اختاري خدماتكِ وأرسلي طلبكِ عبر واتساب — نؤكّد معالِجتكِ وموعدكِ خلال دقائق. بأيادٍ نسائية، في خصوصية بيتكِ." data-en="Pick your services and send your order on WhatsApp — we confirm your therapist and time within minutes. By women, for women — in the privacy of your home.">اختاري خدماتكِ وأرسلي طلبكِ عبر واتساب — نؤكّد معالِجتكِ وموعدكِ خلال دقائق. بأيادٍ نسائية، في خصوصية بيتكِ.</p>
       <div class="order-cta">
         <a href="#massage" class="btn btn-primary btn-lg" data-ar="اختاري خدمتكِ" data-en="Choose a service">اختاري خدمتكِ</a>
         <button class="btn btn-wa btn-lg" id="waDirect"><svg viewBox="0 0 24 24" fill="currentColor"><path d="M12 2a10 [phone redacted] 15l-[phone redacted].3A10 [phone redacted] 2zm5.8 14.2c-.[phone redacted]-.[phone redacted]-.1-.4-.1-1-.3-1.7-.[phone redacted].5s-[phone redacted] .7-2.1 1-2.4c.2-.3.5-.4.7-.4h.5c.2 0 .4 0 .6.5l.8 2c.1.2.1.4 0 .5l-.4.5-.3.4c-.1.1-.3.3-.1.6s.7 1.1 1.5 1.8c1 .[phone redacted]-.1l.7-.9c.2-.2.4-.2.6-.1l1.9.9c.[phone redacted]-.1 1.3z"/></svg><span data-ar="تواصلي معنا واتساب" data-en="Chat with us on WhatsApp">تواصلي معنا واتساب</span></button>
@@ -633,7 +633,7 @@
     <div class="footer-grid">
       <div class="footer-brand">
         <a href="#" class="brand"><img class="mark" src="assets/logo.svg" alt="" width="44" height="44"><span class="brand-text" style="color:#fff">يا سبا<small>YA SPA</small></span></a>
-        <p data-ar="المساج والعناية في خصوصية بيتكِ بجدة. نساء معتمدات، موثّقات، ومحترفات." data-en="At-home massage and care in the privacy of your home in Jeddah. Certified, verified, professional women.">المساج والعناية في خصوصية بيتكِ بجدة. نساء معتمدات، موثّقات، ومحترفات.</p>
+        <p data-ar="المساج في خصوصية بيتكِ بجدة. معالِجات معتمدات، موثّقات، ومحترفات — نساء فقط." data-en="At-home massage in the privacy of your home in Jeddah. Certified, verified, professional women — women only.">المساج في خصوصية بيتكِ بجدة. معالِجات معتمدات، موثّقات، ومحترفات — نساء فقط.</p>
         <div class="social">
           <a href="#" aria-label="Snapchat"><svg viewBox="0 0 24 24" fill="currentColor" style="color:#fff"><path d="M12 2c2.7 0 4.5 2 4.6 4.7l.1 2c.6.3 1.3.1 1.8-.2.6-.3 1.3.5.8 1.1-.5.6-1.4.9-2.1 1.1.3 1.2 1.4 2.9 3.2 3.4.5.1.6.8.1 1-.6.3-1.4.4-1.8.5-.2.4 0 1.1-.7 1.1-.6 0-1.2-.4-2.1-.2-.8.2-1.5 1.3-3.2 1.3s-2.4-1.1-3.2-1.3c-.9-.2-1.5.2-2.1.2-.7 0-.5-.7-.7-1.1-.4-.1-1.2-.2-1.8-.5-.5-.2-.4-.9.1-1 1.8-.5 2.9-2.2 3.2-3.4-.7-.2-1.6-.5-2.1-1.1-.5-.6.2-1.4.8-1.1.5.3 1.2.5 1.8.2l.1-2C7.5 4 9.3 2 12 2z"/></svg></a>
           <a href="#" aria-label="Instagram"><svg viewBox="0 0 24 24" fill="none" stroke="#fff" stroke-width="2"><rect x="3" y="3" width="18" height="18" rx="5"/><circle cx="12" cy="12" r="4"/><circle cx="17.5" cy="6.5" r="1" fill="#fff"/></svg></a>
@@ -656,7 +656,6 @@
       </div>
       <div class="footer-col">
         <h5 data-ar="المزيد" data-en="More">المزيد</h5>
-        <a href="#beauty" data-ar="التجميل والعناية" data-en="Beauty & care">التجميل والعناية</a>
         <a href="#bridal" data-ar="باقات العرائس" data-en="Bridal packages">باقات العرائس</a>
         <a href="#trust" data-ar="الثقة والأمان" data-en="Trust & safety">الثقة والأمان</a>
         <a href="#providers" data-ar="انضمي كمعالِجة" data-en="Become a therapist">انضمي كمعالِجة</a>